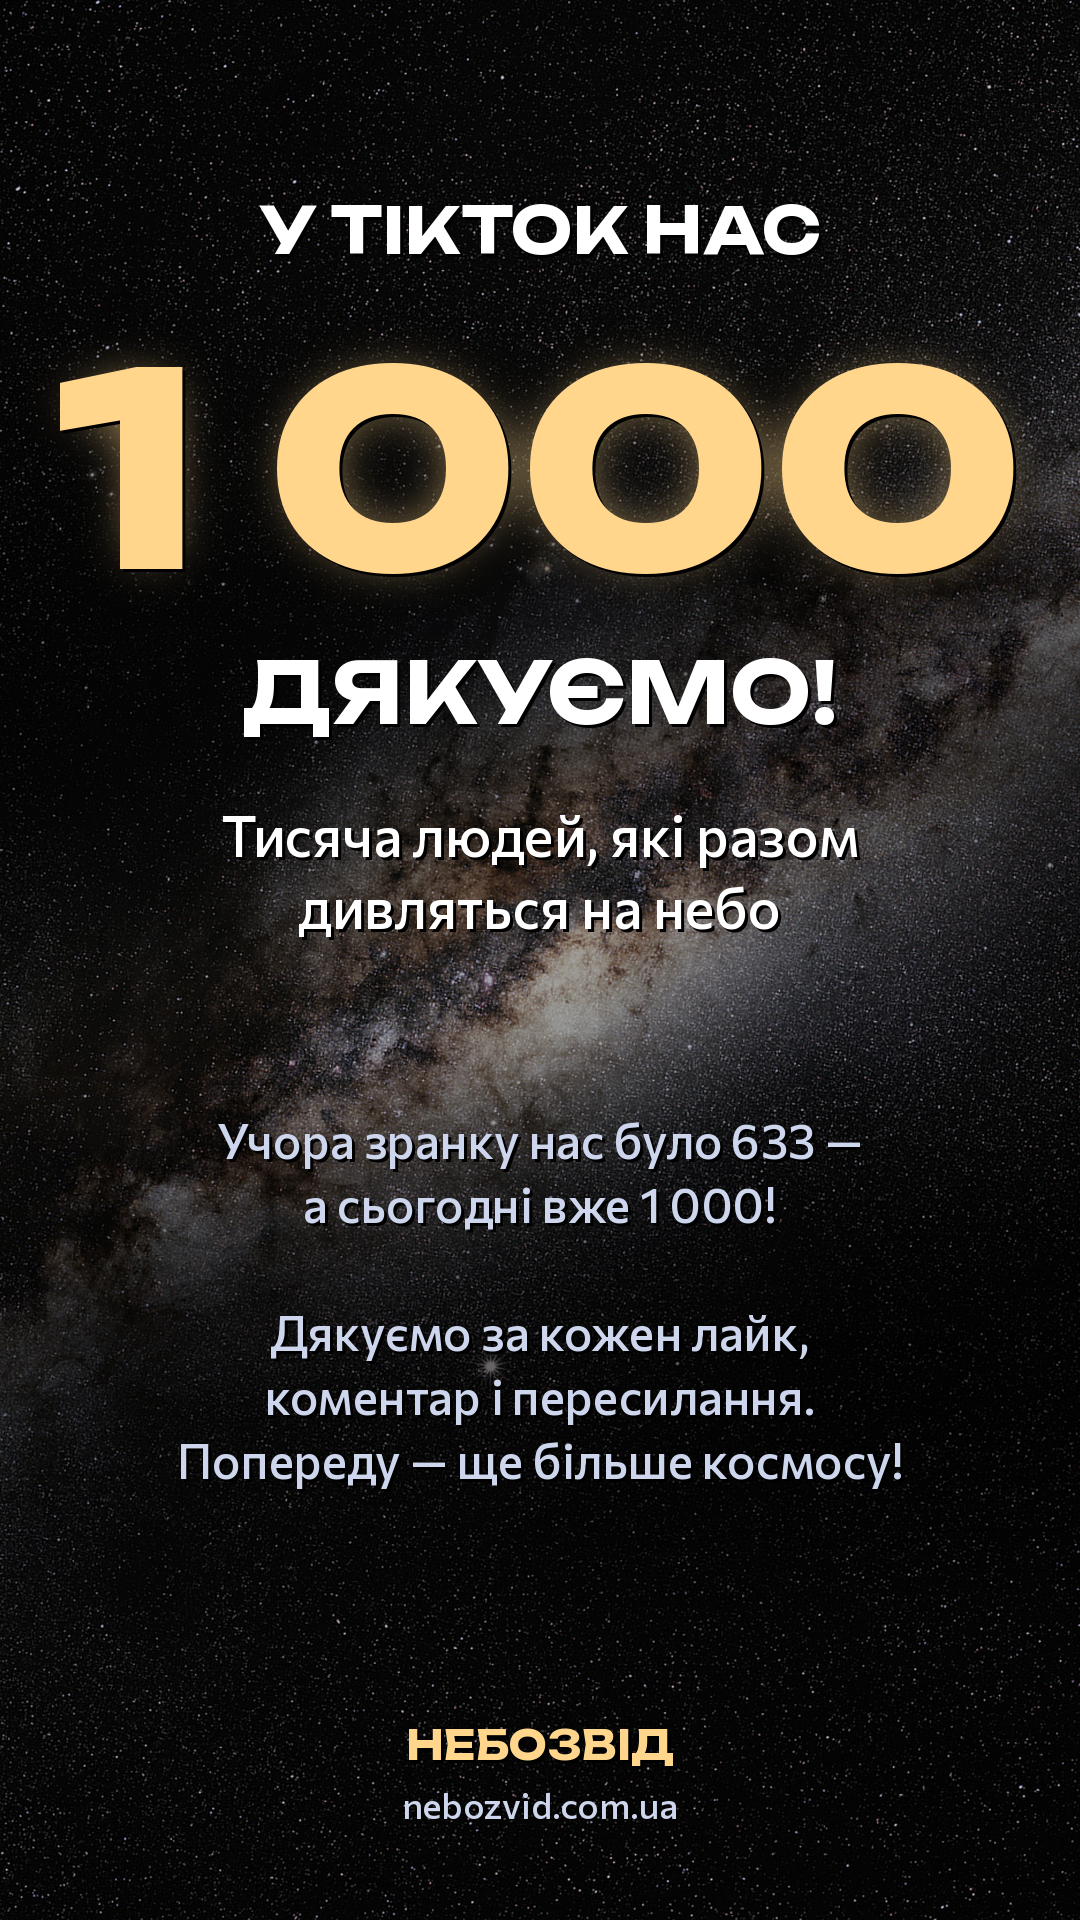
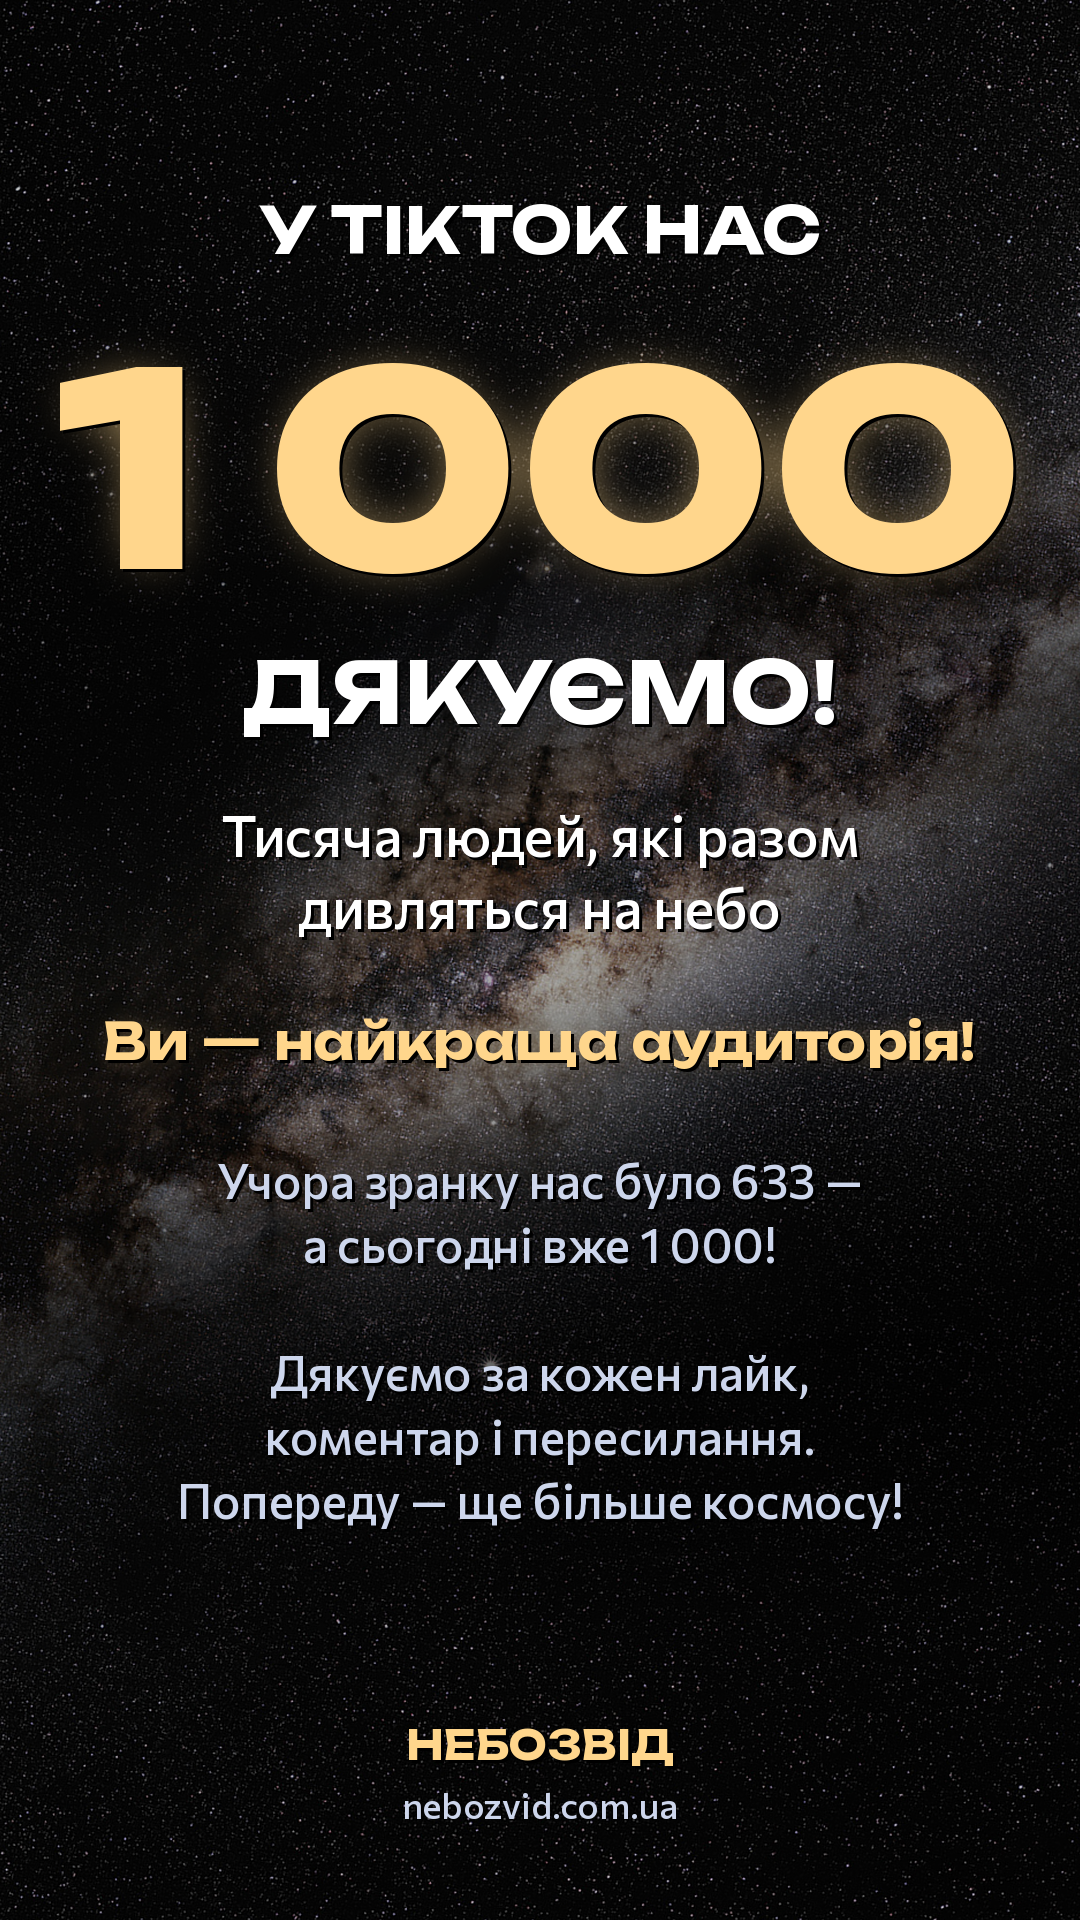
Сторіз TikTok 1 000: «Ви — найкраща аудиторія!»
Claude-Session: https://claude.ai/code/session_01RfjZRMMZMSvucWLpqkx2Sn

Changed region(s): [[0.1528, 0.6875, 0.8556, 0.8125], [0.0917, 0.5312, 0.9167, 0.6562]]

diff --git a/videos/stories/tiktok1000.py b/videos/stories/tiktok1000.py
@@ -45,9 +45,10 @@ ctext(300, n, f, gold, glow=28)
 ctext(640, 'ДЯКУЄМО!', U(84), white)
 lines = ['Тисяча людей, які разом', 'дивляться на небо']
 for i, t in enumerate(lines): ctext(800 + i * 72, t, C(56), white)
+ctext(1010, 'Ви — найкраща аудиторія!', U(50), gold, glow=16)
 body = ['Учора зранку нас було 633 —', 'а сьогодні вже 1 000!', '', 'Дякуємо за кожен лайк,', 'коментар і пересилання.', 'Попереду — ще більше космосу!']
 for i, t in enumerate(body):
-    if t: ctext(1110 + i * 64, t, C(48), soft)
+    if t: ctext(1150 + i * 64, t, C(48), soft)
 ctext(1720, 'НЕБОЗВІД', U(40), gold)
 ctext(1782, 'nebozvid.com.ua', C(36), soft, shadow=False)
 img.convert('RGB').save(OUT)
